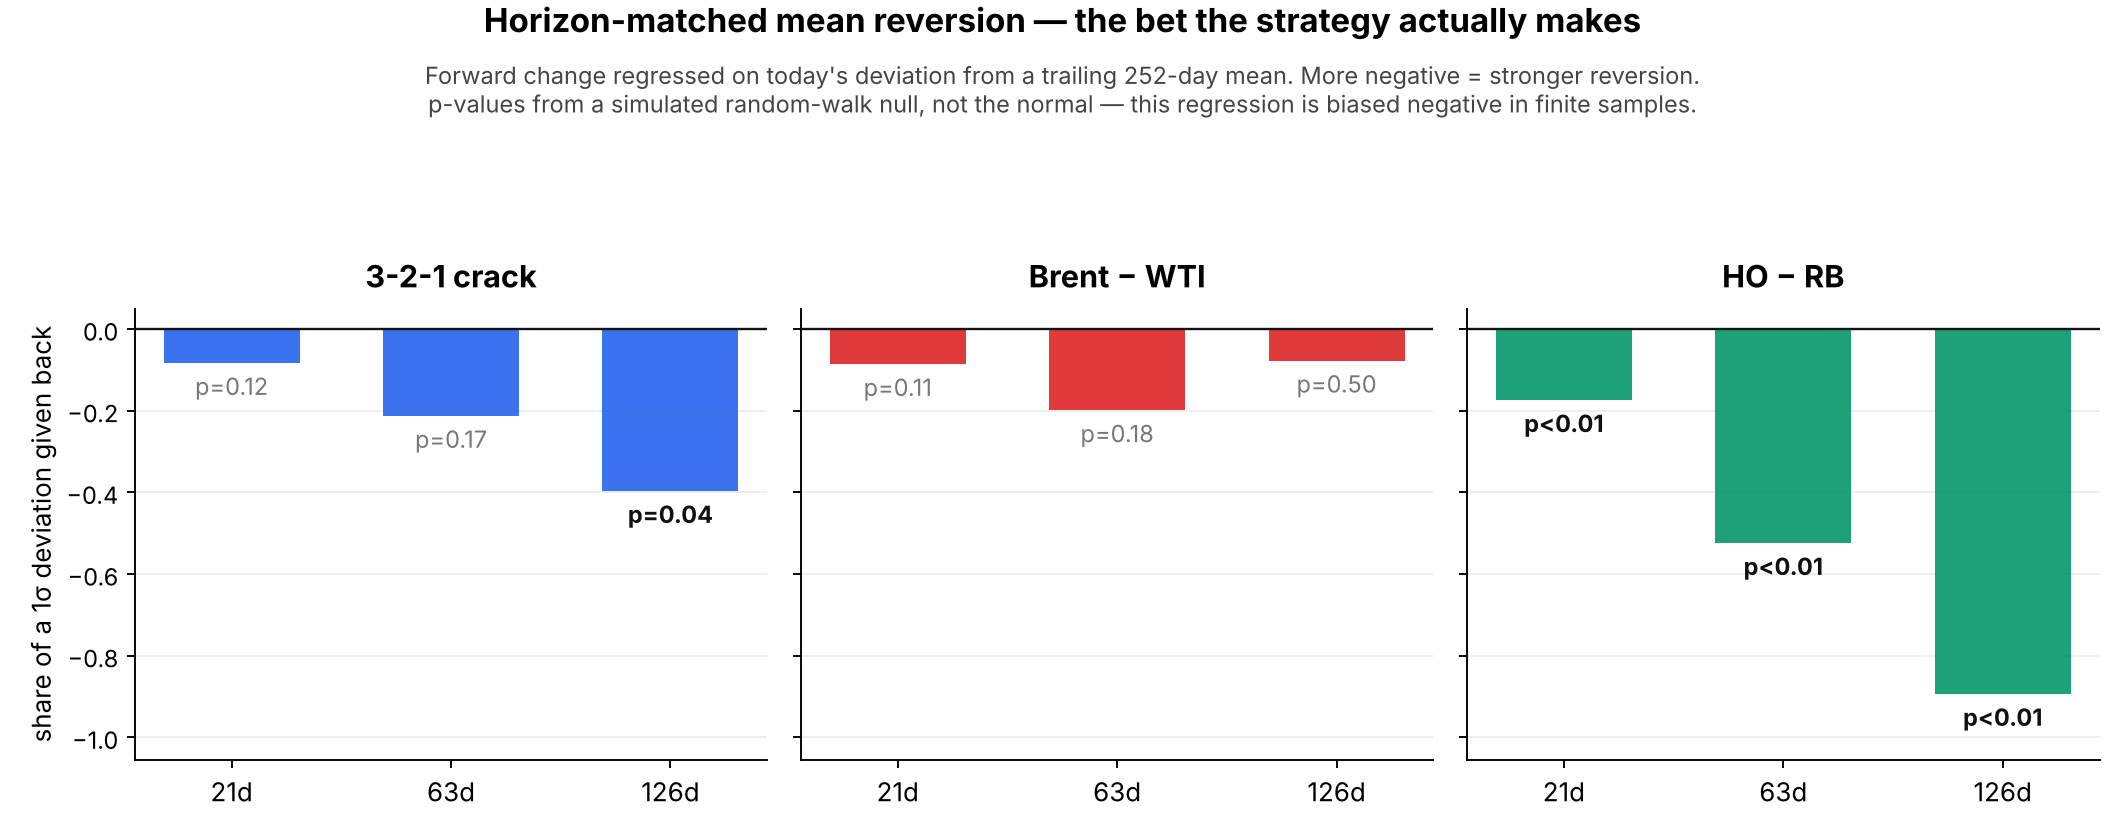
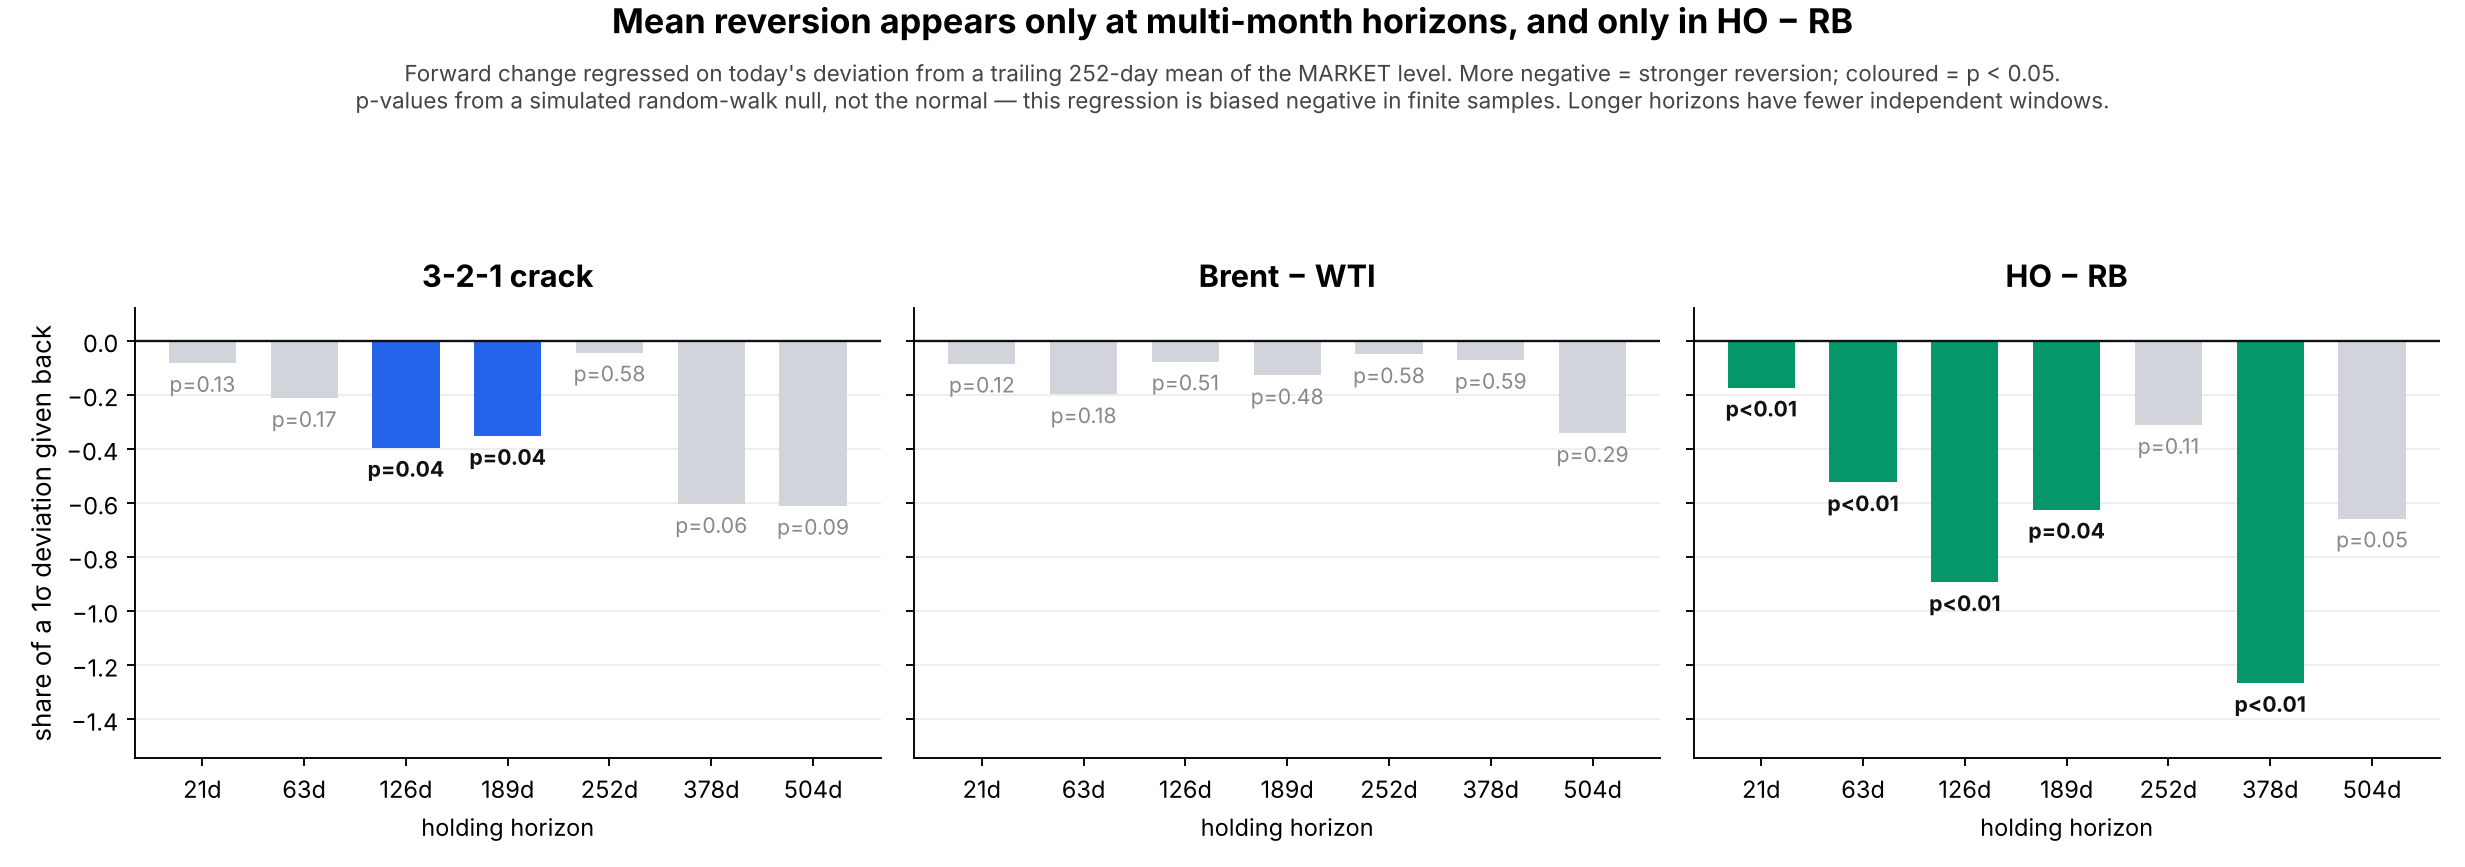
Extend horizon reversion tests to 504 days and a second anchor window
Does mean reversion appear if the horizon is longer than 126 days? Horizons
189/252/378/504 added, each with its own simulated random-walk null, and every
horizon re-run against a 504-day trailing anchor as a robustness check.

HO-RB reverts at every horizon from 21 to 504 days under both anchors; the crack
is borderline throughout (p 0.04-0.09, and weaker under the 504-day anchor);
Brent-WTI shows nothing at any horizon. All three dip at exactly 252 days, which
is consistent with an annual seasonal cycle but is not tested here.

Claude-Session: https://claude.ai/code/session_017mnvF64zi1u7vQ8LfU4W9V

diff --git a/scripts/run_horizon_tests.py b/scripts/run_horizon_tests.py
@@ -31,8 +31,10 @@ from oilrv.config import ROOT
 
 OUT = ROOT / "output/exploratory/horizon_tests"
 TAB, FIG = OUT / "tables", OUT / "figures"
-HORIZONS = (5, 10, 21, 63, 126)
-NULL_HORIZONS = (21, 63, 126)
+HORIZONS = (5, 10, 21, 63, 126, 189, 252, 378, 504)
+NULL_HORIZONS = (21, 63, 126, 189, 252, 378, 504)
+# second trailing window: is the result an artefact of the 252-day anchor?
+ANCHOR_WINDOWS = (252, 504)
 VR_Q = (21, 63, 126, 252)
 TRADE_START = "2010-02-01"
 SUBPERIODS = [("2007-2013", "2007-01-01", "2013-12-31"),
@@ -95,18 +97,21 @@ def part_power(reps_ar: int) -> None:
 
 def part_reversion(S: dict, reps: int) -> pd.DataFrame:
     print("\n[2] Horizon-matched mean reversion, with a random-walk null")
+    print("    Horizons to 504 days and a 504-day anchor added 2026-11-02:")
+    print("    does reversion appear if the horizon is longer than 126 days?")
     rows = []
     for nm in ("crack321", "brent_wti", "ho_rb"):
         lv = S[nm]["market"]
         sd = S[nm]["badj"].diff().std()
-        for k in HORIZONS:
-            r = H.reversion_regression(lv, k)
-            if k in NULL_HORIZONS:
-                null = H.reversion_rw_null(len(lv), sd, k, reps=reps)
-                r["crit5_sim"] = float(np.percentile(null, 5))
-                r["p_sim"] = float((null <= r["t"]).mean())
-            rows.append({"spread": nm, **r})
-    df = pd.DataFrame(rows).set_index(["spread", "k"])
+        for win in ANCHOR_WINDOWS:
+            for k in HORIZONS:
+                r = H.reversion_regression(lv, k, window=win)
+                if k in NULL_HORIZONS:
+                    null = H.reversion_rw_null(len(lv), sd, k, window=win, reps=reps)
+                    r["crit5_sim"] = float(np.percentile(null, 5))
+                    r["p_sim"] = float((null <= r["t"]).mean())
+                rows.append({"spread": nm, "anchor_window": win, **r})
+    df = pd.DataFrame(rows).set_index(["spread", "anchor_window", "k"])
     print(df.round(4).to_string())
     save(df, "reversion_by_horizon.csv")
     return df
@@ -195,39 +200,43 @@ def figure(rev: pd.DataFrame) -> None:
     import matplotlib.pyplot as plt
 
     FIG.mkdir(parents=True, exist_ok=True)
-    names = {"crack321": "3-2-1 crack", "brent_wti": "Brent − WTI", "ho_rb": "HO − RB"}
+    names = {"crack321": "3-2-1 crack", "brent_wti": "Brent \u2212 WTI", "ho_rb": "HO \u2212 RB"}
     col = {"crack321": "#2563eb", "brent_wti": "#dc2626", "ho_rb": "#059669"}
     ks = list(NULL_HORIZONS)
-    fig, axes = plt.subplots(1, 3, figsize=(12.5, 4.9), sharey=True)
+    r = rev.xs(252, level="anchor_window")
+    fig, axes = plt.subplots(1, 3, figsize=(14.5, 5.1), sharey=True)
     for ax, nm in zip(axes, names):
-        vals = [rev.loc[(nm, k), "share_of_1sd"] for k in ks]
-        ps = [rev.loc[(nm, k), "p_sim"] for k in ks]
-        ax.bar(range(len(ks)), vals, color=col[nm], alpha=.9, width=.62)
+        vals = [r.loc[(nm, k), "share_of_1sd"] for k in ks]
+        ps = [r.loc[(nm, k), "p_sim"] for k in ks]
+        ax.bar(range(len(ks)), vals,
+               color=[col[nm] if p < .05 else "#d1d5db" for p in ps], width=.66)
         ax.axhline(0, color="#111", lw=1)
         ax.set_xticks(range(len(ks)))
-        ax.set_xticklabels([f"{k}d" for k in ks], fontsize=11)
+        ax.set_xticklabels([f"{k}d" for k in ks], fontsize=10)
         ax.set_title(names[nm], fontweight="bold", fontsize=13, pad=9)
+        ax.set_xlabel("holding horizon", fontsize=10)
         ax.spines[["top", "right"]].set_visible(False)
         ax.grid(axis="y", alpha=.25, lw=.7)
         ax.set_axisbelow(True)
         for i, (v, p) in enumerate(zip(vals, ps)):
             lab = "p<0.01" if p < .01 else f"p={p:.2f}"
             strong = p < .05
-            ax.text(i, v - .022, lab, ha="center", va="top", fontsize=10,
+            ax.text(i, v - .03, lab, ha="center", va="top", fontsize=9,
                     fontweight="bold" if strong else "normal",
-                    color="#111" if strong else "#777")
-    axes[0].set_ylabel("share of a 1σ deviation given back", fontsize=11)
-    lo = min(rev.loc[(n, k), "share_of_1sd"] for n in names for k in ks)
-    axes[0].set_ylim(min(-0.2, lo * 1.18), 0.05)
-    fig.suptitle("Horizon-matched mean reversion — the bet the strategy actually makes",
-                 fontsize=14, fontweight="bold", y=1.0)
-    fig.text(.5, .865, "Forward change regressed on today's deviation from a trailing 252-day "
-             "mean. More negative = stronger reversion.\np-values from a simulated random-walk "
-             "null, not the normal — this regression is biased negative in finite samples.",
-             ha="center", fontsize=10, color="#444")
-    fig.tight_layout(rect=[0, 0, 1, .80])
+                    color="#111" if strong else "#888")
+    axes[0].set_ylabel("share of a 1\u03c3 deviation given back", fontsize=11)
+    lo = min(r.loc[(n, k), "share_of_1sd"] for n in names for k in ks)
+    axes[0].set_ylim(min(-0.2, lo * 1.22), 0.12)
+    fig.suptitle("Mean reversion appears only at multi-month horizons, and only in HO \u2212 RB",
+                 fontsize=14.5, fontweight="bold", y=1.0)
+    fig.text(.5, .875, "Forward change regressed on today's deviation from a trailing 252-day mean "
+             "of the MARKET level. More negative = stronger reversion; coloured = p < 0.05.\n"
+             "p-values from a simulated random-walk null, not the normal \u2014 this regression is "
+             "biased negative in finite samples. Longer horizons have fewer independent windows.",
+             ha="center", fontsize=9.5, color="#444")
+    fig.tight_layout(rect=[0, 0, 1, .81])
     fig.savefig(FIG / "horizon_reversion.png", dpi=170, facecolor="white")
-    print(f"  wrote figures/horizon_reversion.png")
+    print("  wrote figures/horizon_reversion.png")
 
 
 def main(reps: int = 600, quick: bool = False) -> dict:
